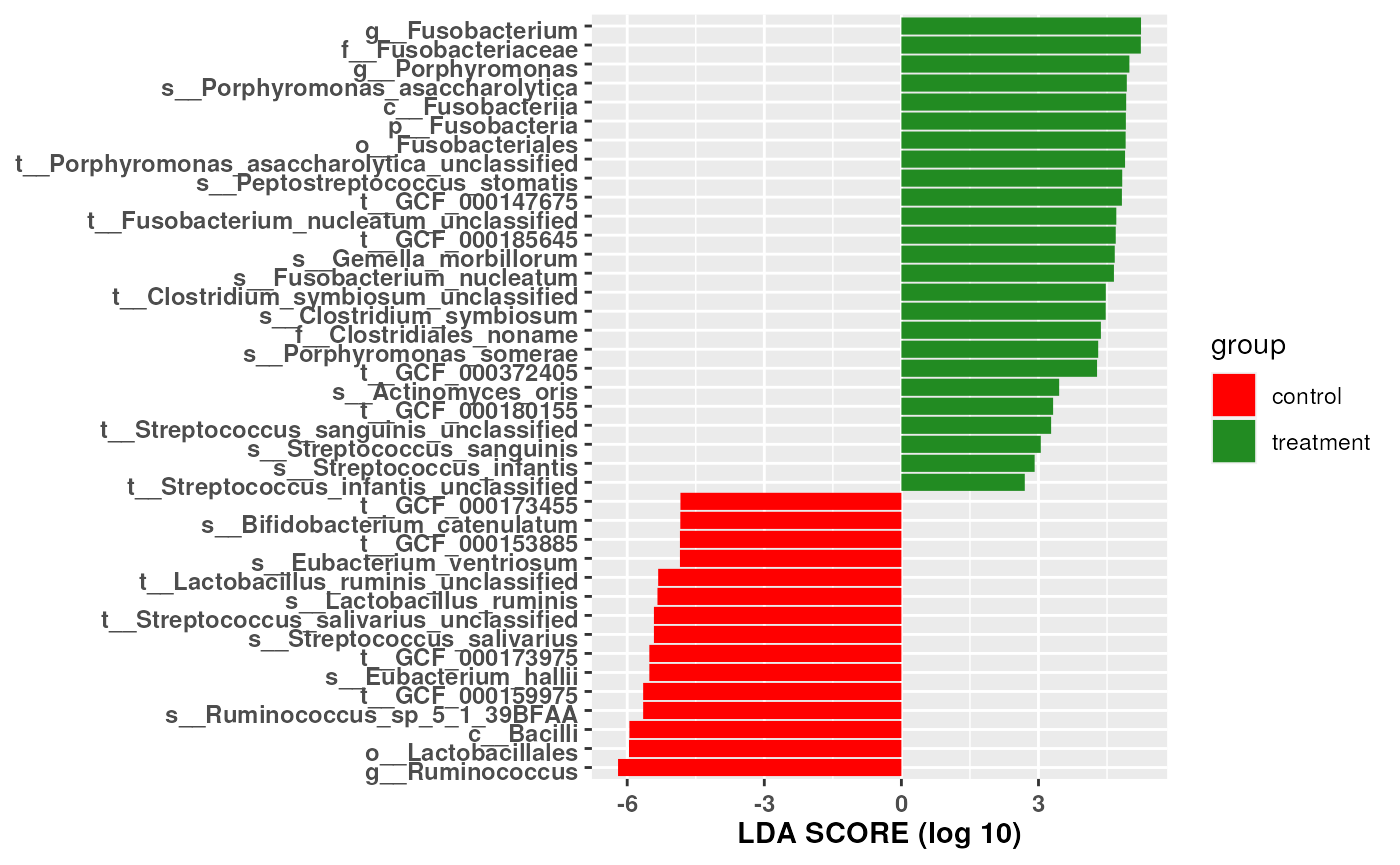
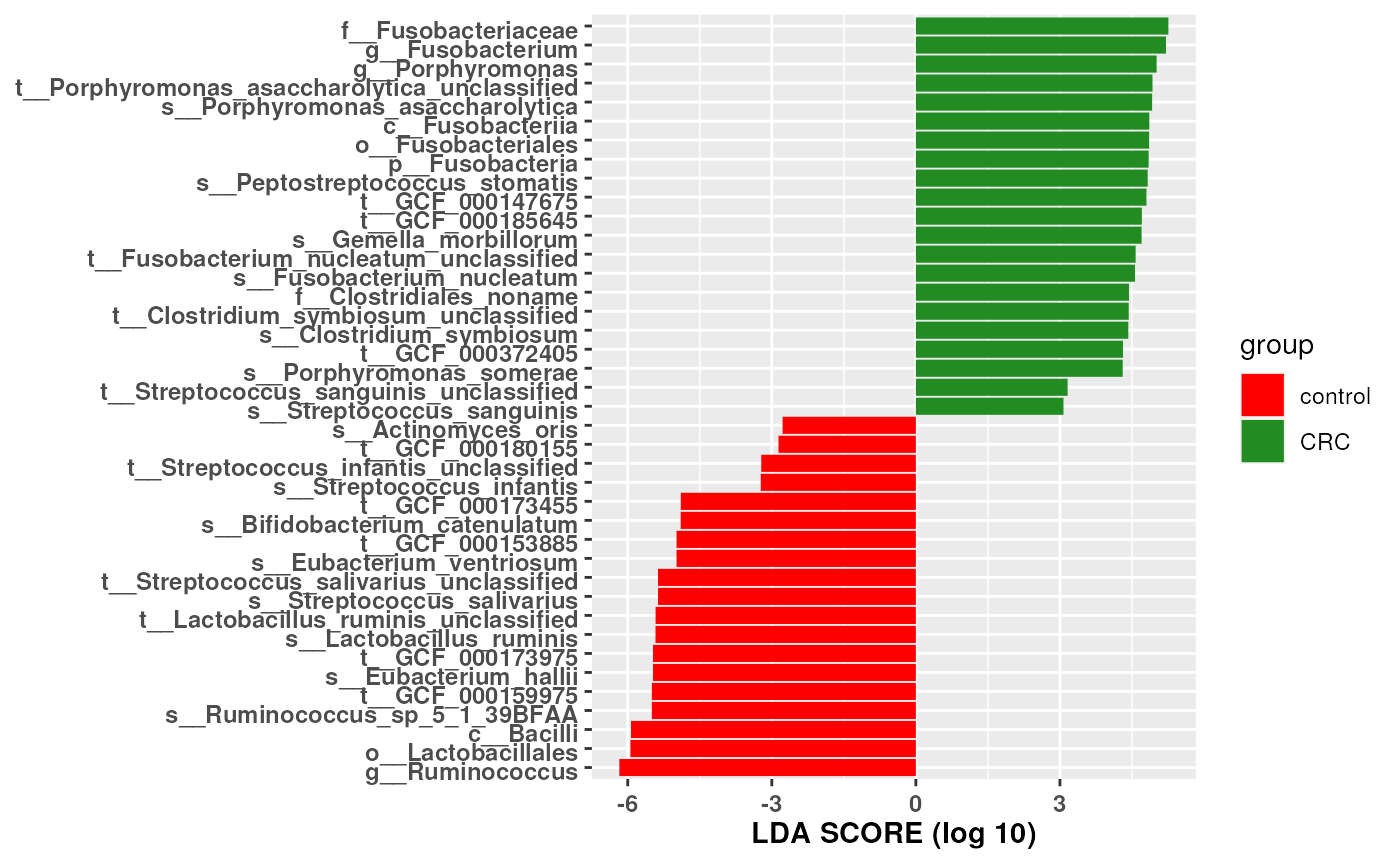
Deploying to gh-pages from @ waldronlab/lefser@ae0b752bccc70e76db7b100ea20f3a078b522543 🚀

diff --git a/articles/lefser.html b/articles/lefser.html
@@ -39,7 +39,7 @@
       </button>
       <span class="navbar-brand">
         <a class="navbar-link" href="../index.html">lefser</a>
-        <span class="version label label-default" data-toggle="tooltip" data-placement="bottom" title="">1.11.2</span>
+        <span class="version label label-default" data-toggle="tooltip" data-placement="bottom" title="">1.11.3</span>
       </span>
     </div>
 
@@ -82,7 +82,7 @@ Waldron<br><small>School of Public Health, City University of New
 York</small>
 </div></h4>
             
-            <h4 data-toc-skip class="date">2023-09-06</h4>
+            <h4 data-toc-skip class="date">2023-10-20</h4>
       
       <small class="dont-index">Source: <a href="https://github.com/waldronlab/lefser/blob/HEAD/vignettes/lefser.Rmd" class="external-link"><code>vignettes/lefser.Rmd</code></a></small>
       <div class="hidden name"><code>lefser.Rmd</code></div>
@@ -162,7 +162,9 @@ and their effect size.</p>
 <code class="sourceCode R"><span><span class="va">res</span> <span class="op">&lt;-</span> <span class="fu"><a href="../reference/lefser.html">lefser</a></span><span class="op">(</span><span class="va">zeller14</span>, groupCol <span class="op">=</span> <span class="st">"study_condition"</span>, blockCol <span class="op">=</span> <span class="st">"age_category"</span><span class="op">)</span></span></code></pre></div>
 <pre><code><span><span class="co">## Warning in lefser(zeller14, groupCol = "study_condition", blockCol =</span></span>
 <span><span class="co">## "age_category"): Convert counts to relative abundances with 'relativeAb()'</span></span></code></pre>
-<div class="sourceCode" id="cb12"><pre class="downlit sourceCode r">
+<pre><code><span><span class="co">## The outcome variable is specified as 'study_condition' and the reference category is 'control'.</span></span>
+<span><span class="co">##  See `?factor` or `?relevel` to change the reference category.</span></span></code></pre>
+<div class="sourceCode" id="cb13"><pre class="downlit sourceCode r">
 <code class="sourceCode R"><span><span class="fu"><a href="https://rdrr.io/r/utils/head.html" class="external-link">head</a></span><span class="op">(</span><span class="va">res</span><span class="op">)</span></span></code></pre></div>
 <pre><code><span><span class="co">##                                                                                                                                        Names</span></span>
 <span><span class="co">## 1                                                k__Bacteria|p__Firmicutes|c__Clostridia|o__Clostridiales|f__Ruminococcaceae|g__Ruminococcus</span></span>
@@ -172,23 +174,23 @@ and their effect size.</p>
 <span><span class="co">## 5 k__Bacteria|p__Firmicutes|c__Clostridia|o__Clostridiales|f__Ruminococcaceae|g__Ruminococcus|s__Ruminococcus_sp_5_1_39BFAA|t__GCF_000159975</span></span>
 <span><span class="co">## 6                            k__Bacteria|p__Firmicutes|c__Clostridia|o__Clostridiales|f__Eubacteriaceae|g__Eubacterium|s__Eubacterium_hallii</span></span>
 <span><span class="co">##      scores</span></span>
-<span><span class="co">## 1 -6.200407</span></span>
-<span><span class="co">## 2 -5.960807</span></span>
-<span><span class="co">## 3 -5.951899</span></span>
-<span><span class="co">## 4 -5.651024</span></span>
-<span><span class="co">## 5 -5.651024</span></span>
-<span><span class="co">## 6 -5.515625</span></span></code></pre>
+<span><span class="co">## 1 -6.174735</span></span>
+<span><span class="co">## 2 -5.944198</span></span>
+<span><span class="co">## 3 -5.932699</span></span>
+<span><span class="co">## 4 -5.498126</span></span>
+<span><span class="co">## 5 -5.498126</span></span>
+<span><span class="co">## 6 -5.474545</span></span></code></pre>
 </div>
 <div class="section level2">
 <h2 id="visualizing-results-with-lefserplot">Visualizing results with <code>lefserPlot</code><a class="anchor" aria-label="anchor" href="#visualizing-results-with-lefserplot"></a>
 </h2>
-<div class="sourceCode" id="cb14"><pre class="downlit sourceCode r">
+<div class="sourceCode" id="cb15"><pre class="downlit sourceCode r">
 <code class="sourceCode R"><span><span class="fu"><a href="../reference/lefserPlot.html">lefserPlot</a></span><span class="op">(</span><span class="va">res</span><span class="op">)</span></span></code></pre></div>
 <p><img src="lefser_files/figure-html/unnamed-chunk-8-1.png" width="700" style="display: block; margin: auto;"></p>
 <div class="section level3">
 <h3 id="sessioninfo">sessionInfo<a class="anchor" aria-label="anchor" href="#sessioninfo"></a>
 </h3>
-<details><div class="sourceCode" id="cb15"><pre class="downlit sourceCode r">
+<details><div class="sourceCode" id="cb16"><pre class="downlit sourceCode r">
 <code class="sourceCode R"><span><span class="fu"><a href="https://rdrr.io/r/utils/sessionInfo.html" class="external-link">sessionInfo</a></span><span class="op">(</span><span class="op">)</span></span></code></pre></div>
 <pre><code><span><span class="co">## R version 4.3.0 (2023-04-21)</span></span>
 <span><span class="co">## Platform: x86_64-pc-linux-gnu (64-bit)</span></span>
@@ -214,40 +216,40 @@ and their effect size.</p>
 <span><span class="co">## [8] base     </span></span>
 <span><span class="co">## </span></span>
 <span><span class="co">## other attached packages:</span></span>
-<span><span class="co">##  [1] lefser_1.11.2               SummarizedExperiment_1.30.2</span></span>
-<span><span class="co">##  [3] Biobase_2.60.0              GenomicRanges_1.52.0       </span></span>
-<span><span class="co">##  [5] GenomeInfoDb_1.36.2         IRanges_2.34.1             </span></span>
-<span><span class="co">##  [7] S4Vectors_0.38.1            BiocGenerics_0.46.0        </span></span>
+<span><span class="co">##  [1] lefser_1.11.3               SummarizedExperiment_1.30.2</span></span>
+<span><span class="co">##  [3] Biobase_2.60.0              GenomicRanges_1.52.1       </span></span>
+<span><span class="co">##  [5] GenomeInfoDb_1.36.4         IRanges_2.34.1             </span></span>
+<span><span class="co">##  [7] S4Vectors_0.38.2            BiocGenerics_0.46.0        </span></span>
 <span><span class="co">##  [9] MatrixGenerics_1.12.3       matrixStats_1.0.0          </span></span>
-<span><span class="co">## [11] BiocStyle_2.28.0           </span></span>
+<span><span class="co">## [11] BiocStyle_2.28.1           </span></span>
 <span><span class="co">## </span></span>
 <span><span class="co">## loaded via a namespace (and not attached):</span></span>
-<span><span class="co">##  [1] gtable_0.3.4            ggplot2_3.4.3           xfun_0.40              </span></span>
-<span><span class="co">##  [4] bslib_0.5.1             coin_1.4-2              lattice_0.21-8         </span></span>
-<span><span class="co">##  [7] generics_0.1.3          vctrs_0.6.3             tools_4.3.0            </span></span>
+<span><span class="co">##  [1] gtable_0.3.4            ggplot2_3.4.4           xfun_0.40              </span></span>
+<span><span class="co">##  [4] bslib_0.5.1             coin_1.4-3              lattice_0.21-9         </span></span>
+<span><span class="co">##  [7] generics_0.1.3          vctrs_0.6.4             tools_4.3.0            </span></span>
 <span><span class="co">## [10] bitops_1.0-7            parallel_4.3.0          sandwich_3.0-2         </span></span>
-<span><span class="co">## [13] fansi_1.0.4             tibble_3.2.1            highr_0.10             </span></span>
-<span><span class="co">## [16] pkgconfig_2.0.3         Matrix_1.6-1            desc_1.4.2             </span></span>
-<span><span class="co">## [19] lifecycle_1.0.3         GenomeInfoDbData_1.2.10 farver_2.1.1           </span></span>
-<span><span class="co">## [22] compiler_4.3.0          stringr_1.5.0           textshaping_0.3.6      </span></span>
-<span><span class="co">## [25] munsell_0.5.0           codetools_0.2-19        htmltools_0.5.6        </span></span>
-<span><span class="co">## [28] sass_0.4.7              RCurl_1.98-1.12         yaml_2.3.7             </span></span>
-<span><span class="co">## [31] pillar_1.9.0            pkgdown_2.0.7           crayon_1.5.2           </span></span>
-<span><span class="co">## [34] jquerylib_0.1.4         MASS_7.3-60             DelayedArray_0.26.7    </span></span>
-<span><span class="co">## [37] cachem_1.0.8            abind_1.4-5             multcomp_1.4-25        </span></span>
-<span><span class="co">## [40] tidyselect_1.2.0        digest_0.6.33           mvtnorm_1.2-3          </span></span>
-<span><span class="co">## [43] stringi_1.7.12          dplyr_1.1.3             purrr_1.0.2            </span></span>
-<span><span class="co">## [46] bookdown_0.35           labeling_0.4.3          splines_4.3.0          </span></span>
-<span><span class="co">## [49] rprojroot_2.0.3         fastmap_1.1.1           grid_4.3.0             </span></span>
-<span><span class="co">## [52] colorspace_2.1-0        cli_3.6.1               magrittr_2.0.3         </span></span>
-<span><span class="co">## [55] S4Arrays_1.0.6          utf8_1.2.3              survival_3.5-7         </span></span>
-<span><span class="co">## [58] TH.data_1.1-2           withr_2.5.0             libcoin_1.0-9          </span></span>
-<span><span class="co">## [61] scales_1.2.1            rmarkdown_2.24          XVector_0.40.0         </span></span>
-<span><span class="co">## [64] ragg_1.2.5              zoo_1.8-12              modeltools_0.2-23      </span></span>
-<span><span class="co">## [67] memoise_2.0.1           evaluate_0.21           knitr_1.43             </span></span>
-<span><span class="co">## [70] rlang_1.1.1             glue_1.6.2              BiocManager_1.30.22    </span></span>
-<span><span class="co">## [73] jsonlite_1.8.7          R6_2.5.1                systemfonts_1.0.4      </span></span>
-<span><span class="co">## [76] fs_1.6.3                zlibbioc_1.46.0</span></span></code></pre>
+<span><span class="co">## [13] fansi_1.0.5             tibble_3.2.1            pkgconfig_2.0.3        </span></span>
+<span><span class="co">## [16] Matrix_1.6-1.1          desc_1.4.2              lifecycle_1.0.3        </span></span>
+<span><span class="co">## [19] GenomeInfoDbData_1.2.10 farver_2.1.1            compiler_4.3.0         </span></span>
+<span><span class="co">## [22] stringr_1.5.0           textshaping_0.3.7       munsell_0.5.0          </span></span>
+<span><span class="co">## [25] codetools_0.2-19        htmltools_0.5.6.1       sass_0.4.7             </span></span>
+<span><span class="co">## [28] RCurl_1.98-1.12         yaml_2.3.7              pillar_1.9.0           </span></span>
+<span><span class="co">## [31] pkgdown_2.0.7           crayon_1.5.2            jquerylib_0.1.4        </span></span>
+<span><span class="co">## [34] MASS_7.3-60             DelayedArray_0.26.7     cachem_1.0.8           </span></span>
+<span><span class="co">## [37] abind_1.4-5             multcomp_1.4-25         tidyselect_1.2.0       </span></span>
+<span><span class="co">## [40] digest_0.6.33           mvtnorm_1.2-3           stringi_1.7.12         </span></span>
+<span><span class="co">## [43] dplyr_1.1.3             purrr_1.0.2             bookdown_0.36          </span></span>
+<span><span class="co">## [46] labeling_0.4.3          splines_4.3.0           rprojroot_2.0.3        </span></span>
+<span><span class="co">## [49] fastmap_1.1.1           grid_4.3.0              colorspace_2.1-0       </span></span>
+<span><span class="co">## [52] cli_3.6.1               magrittr_2.0.3          S4Arrays_1.0.6         </span></span>
+<span><span class="co">## [55] utf8_1.2.3              survival_3.5-7          TH.data_1.1-2          </span></span>
+<span><span class="co">## [58] withr_2.5.1             libcoin_1.0-10          scales_1.2.1           </span></span>
+<span><span class="co">## [61] rmarkdown_2.25          XVector_0.40.0          ragg_1.2.6             </span></span>
+<span><span class="co">## [64] zoo_1.8-12              modeltools_0.2-23       memoise_2.0.1          </span></span>
+<span><span class="co">## [67] evaluate_0.22           knitr_1.44              rlang_1.1.1            </span></span>
+<span><span class="co">## [70] glue_1.6.2              BiocManager_1.30.22     jsonlite_1.8.7         </span></span>
+<span><span class="co">## [73] R6_2.5.1                systemfonts_1.0.5       fs_1.6.3               </span></span>
+<span><span class="co">## [76] zlibbioc_1.46.0</span></span></code></pre>
 </details>
 </div>
 </div>

diff --git a/reference/lefserPlot.html b/reference/lefserPlot.html
@@ -24,7 +24,7 @@ and whether they are more abundant in '0' or '1' sample group."><!-- mathjax -->
       </button>
       <span class="navbar-brand">
         <a class="navbar-link" href="../index.html">lefser</a>
-        <span class="version label label-default" data-toggle="tooltip" data-placement="bottom" title="">1.11.2</span>
+        <span class="version label label-default" data-toggle="tooltip" data-placement="bottom" title="">1.11.3</span>
       </span>
     </div>
 
@@ -103,6 +103,8 @@ Negative scores represent microorganisms with that are more abundant in class '0
 <span class="r-out co"><span class="r-pr">#&gt;</span> </span>
 <span class="r-out co"><span class="r-pr">#&gt;</span> lefser&gt;     res_group &lt;- lefser(zeller14, groupCol = "study_condition")</span>
 <span class="r-wrn co"><span class="r-pr">#&gt;</span> <span class="warning">Warning: </span>Convert counts to relative abundances with 'relativeAb()'</span>
+<span class="r-msg co"><span class="r-pr">#&gt;</span> The outcome variable is specified as 'study_condition' and the reference category is 'CRC'.</span>
+<span class="r-msg co"><span class="r-pr">#&gt;</span>  See `?factor` or `?relevel` to change the reference category.</span>
 <span class="r-out co"><span class="r-pr">#&gt;</span> </span>
 <span class="r-out co"><span class="r-pr">#&gt;</span> lefser&gt;     head(res_group)</span>
 <span class="r-out co"><span class="r-pr">#&gt;</span>                                                                                                                                 Names</span>
@@ -110,15 +112,15 @@ Negative scores represent microorganisms with that are more abundant in class '0
 <span class="r-out co"><span class="r-pr">#&gt;</span> 2                                                                        k__Bacteria|p__Bacteroidetes|c__Bacteroidia|o__Bacteroidales</span>
 <span class="r-out co"><span class="r-pr">#&gt;</span> 3                                                                                                        k__Bacteria|p__Bacteroidetes</span>
 <span class="r-out co"><span class="r-pr">#&gt;</span> 4                                                  k__Bacteria|p__Bacteroidetes|c__Bacteroidia|o__Bacteroidales|f__Porphyromonadaceae</span>
-<span class="r-out co"><span class="r-pr">#&gt;</span> 5 k__Bacteria|p__Firmicutes|c__Clostridia|o__Clostridiales|f__Lachnospiraceae|g__Coprococcus|s__Coprococcus_eutactus|t__GCF_000154425</span>
-<span class="r-out co"><span class="r-pr">#&gt;</span> 6                  k__Bacteria|p__Firmicutes|c__Clostridia|o__Clostridiales|f__Lachnospiraceae|g__Coprococcus|s__Coprococcus_eutactus</span>
+<span class="r-out co"><span class="r-pr">#&gt;</span> 5                  k__Bacteria|p__Firmicutes|c__Clostridia|o__Clostridiales|f__Lachnospiraceae|g__Coprococcus|s__Coprococcus_eutactus</span>
+<span class="r-out co"><span class="r-pr">#&gt;</span> 6 k__Bacteria|p__Firmicutes|c__Clostridia|o__Clostridiales|f__Lachnospiraceae|g__Coprococcus|s__Coprococcus_eutactus|t__GCF_000154425</span>
 <span class="r-out co"><span class="r-pr">#&gt;</span>      scores</span>
-<span class="r-out co"><span class="r-pr">#&gt;</span> 1 -6.309861</span>
-<span class="r-out co"><span class="r-pr">#&gt;</span> 2 -6.309861</span>
-<span class="r-out co"><span class="r-pr">#&gt;</span> 3 -6.309823</span>
-<span class="r-out co"><span class="r-pr">#&gt;</span> 4 -5.754115</span>
-<span class="r-out co"><span class="r-pr">#&gt;</span> 5 -5.615591</span>
-<span class="r-out co"><span class="r-pr">#&gt;</span> 6 -5.603346</span>
+<span class="r-out co"><span class="r-pr">#&gt;</span> 1 -6.391417</span>
+<span class="r-out co"><span class="r-pr">#&gt;</span> 2 -6.391417</span>
+<span class="r-out co"><span class="r-pr">#&gt;</span> 3 -6.391392</span>
+<span class="r-out co"><span class="r-pr">#&gt;</span> 4 -5.738434</span>
+<span class="r-out co"><span class="r-pr">#&gt;</span> 5 -5.569205</span>
+<span class="r-out co"><span class="r-pr">#&gt;</span> 6 -5.564682</span>
 <span class="r-out co"><span class="r-pr">#&gt;</span> </span>
 <span class="r-out co"><span class="r-pr">#&gt;</span> lefser&gt;     # (2) Using classes and sublasses</span>
 <span class="r-out co"><span class="r-pr">#&gt;</span> lefser&gt;     data(zeller14)</span>
@@ -130,22 +132,24 @@ Negative scores represent microorganisms with that are more abundant in class '0
 <span class="r-out co"><span class="r-pr">#&gt;</span> lefser+          zeller14, groupCol = "study_condition", blockCol = "age_category"</span>
 <span class="r-out co"><span class="r-pr">#&gt;</span> lefser+     )</span>
 <span class="r-wrn co"><span class="r-pr">#&gt;</span> <span class="warning">Warning: </span>Convert counts to relative abundances with 'relativeAb()'</span>
+<span class="r-msg co"><span class="r-pr">#&gt;</span> The outcome variable is specified as 'study_condition' and the reference category is 'CRC'.</span>
+<span class="r-msg co"><span class="r-pr">#&gt;</span>  See `?factor` or `?relevel` to change the reference category.</span>
 <span class="r-out co"><span class="r-pr">#&gt;</span> </span>
 <span class="r-out co"><span class="r-pr">#&gt;</span> lefser&gt;     head(res_block)</span>
 <span class="r-out co"><span class="r-pr">#&gt;</span>                                                                                                                                                                                Names</span>
 <span class="r-out co"><span class="r-pr">#&gt;</span> 1                                                                               k__Bacteria|p__Fusobacteria|c__Fusobacteriia|o__Fusobacteriales|f__Fusobacteriaceae|g__Fusobacterium</span>
 <span class="r-out co"><span class="r-pr">#&gt;</span> 2                                                                                                k__Bacteria|p__Fusobacteria|c__Fusobacteriia|o__Fusobacteriales|f__Fusobacteriaceae</span>
 <span class="r-out co"><span class="r-pr">#&gt;</span> 3                                                                                k__Bacteria|p__Bacteroidetes|c__Bacteroidia|o__Bacteroidales|f__Porphyromonadaceae|g__Porphyromonas</span>
-<span class="r-out co"><span class="r-pr">#&gt;</span> 4 k__Bacteria|p__Bacteroidetes|c__Bacteroidia|o__Bacteroidales|f__Porphyromonadaceae|g__Porphyromonas|s__Porphyromonas_asaccharolytica|t__Porphyromonas_asaccharolytica_unclassified</span>
-<span class="r-out co"><span class="r-pr">#&gt;</span> 5                                               k__Bacteria|p__Bacteroidetes|c__Bacteroidia|o__Bacteroidales|f__Porphyromonadaceae|g__Porphyromonas|s__Porphyromonas_asaccharolytica</span>
-<span class="r-out co"><span class="r-pr">#&gt;</span> 6                            k__Bacteria|p__Firmicutes|c__Clostridia|o__Clostridiales|f__Peptostreptococcaceae|g__Peptostreptococcus|s__Peptostreptococcus_stomatis|t__GCF_000147675</span>
+<span class="r-out co"><span class="r-pr">#&gt;</span> 4                                               k__Bacteria|p__Bacteroidetes|c__Bacteroidia|o__Bacteroidales|f__Porphyromonadaceae|g__Porphyromonas|s__Porphyromonas_asaccharolytica</span>
+<span class="r-out co"><span class="r-pr">#&gt;</span> 5 k__Bacteria|p__Bacteroidetes|c__Bacteroidia|o__Bacteroidales|f__Porphyromonadaceae|g__Porphyromonas|s__Porphyromonas_asaccharolytica|t__Porphyromonas_asaccharolytica_unclassified</span>
+<span class="r-out co"><span class="r-pr">#&gt;</span> 6                                                                                                                                                        k__Bacteria|p__Fusobacteria</span>
 <span class="r-out co"><span class="r-pr">#&gt;</span>      scores</span>
-<span class="r-out co"><span class="r-pr">#&gt;</span> 1 -5.221845</span>
-<span class="r-out co"><span class="r-pr">#&gt;</span> 2 -5.211800</span>
-<span class="r-out co"><span class="r-pr">#&gt;</span> 3 -5.029697</span>
-<span class="r-out co"><span class="r-pr">#&gt;</span> 4 -4.941729</span>
-<span class="r-out co"><span class="r-pr">#&gt;</span> 5 -4.920391</span>
-<span class="r-out co"><span class="r-pr">#&gt;</span> 6 -4.833937</span>
+<span class="r-out co"><span class="r-pr">#&gt;</span> 1 -5.277865</span>
+<span class="r-out co"><span class="r-pr">#&gt;</span> 2 -5.200398</span>
+<span class="r-out co"><span class="r-pr">#&gt;</span> 3 -5.049135</span>
+<span class="r-out co"><span class="r-pr">#&gt;</span> 4 -4.937132</span>
+<span class="r-out co"><span class="r-pr">#&gt;</span> 5 -4.895265</span>
+<span class="r-out co"><span class="r-pr">#&gt;</span> 6 -4.886917</span>
 <span class="r-in"><span><span class="fu">lefserPlot</span><span class="op">(</span><span class="va">res_group</span><span class="op">)</span></span></span>
 <span class="r-plt img"><img src="lefserPlot-1.png" alt="" width="700" height="433"></span>
 </code></pre></div>

diff --git a/reference/lefser.html b/reference/lefser.html
@@ -27,7 +27,7 @@ are identified as biomarkers."><!-- mathjax --><script src="https://cdnjs.cloudf
       </button>
       <span class="navbar-brand">
         <a class="navbar-link" href="../index.html">lefser</a>
-        <span class="version label label-default" data-toggle="tooltip" data-placement="bottom" title="">1.11.2</span>
+        <span class="version label label-default" data-toggle="tooltip" data-placement="bottom" title="">1.11.3</span>
       </span>
     </div>
 
@@ -167,6 +167,8 @@ argument to <code>FALSE</code>.</p>
 <span class="r-in"><span>    <span class="va">zeller14</span> <span class="op">&lt;-</span> <span class="va">zeller14</span><span class="op">[</span>, <span class="va">zeller14</span><span class="op">$</span><span class="va">study_condition</span> <span class="op">!=</span> <span class="st">"adenoma"</span><span class="op">]</span></span></span>
 <span class="r-in"><span>    <span class="va">res_group</span> <span class="op">&lt;-</span> <span class="fu">lefser</span><span class="op">(</span><span class="va">zeller14</span>, groupCol <span class="op">=</span> <span class="st">"study_condition"</span><span class="op">)</span></span></span>
 <span class="r-wrn co"><span class="r-pr">#&gt;</span> <span class="warning">Warning: </span>Convert counts to relative abundances with 'relativeAb()'</span>
+<span class="r-msg co"><span class="r-pr">#&gt;</span> The outcome variable is specified as 'study_condition' and the reference category is 'CRC'.</span>
+<span class="r-msg co"><span class="r-pr">#&gt;</span>  See `?factor` or `?relevel` to change the reference category.</span>
 <span class="r-in"><span>    <span class="fu"><a href="https://rdrr.io/r/utils/head.html" class="external-link">head</a></span><span class="op">(</span><span class="va">res_group</span><span class="op">)</span></span></span>
 <span class="r-out co"><span class="r-pr">#&gt;</span>                                                                                                                                 Names</span>
 <span class="r-out co"><span class="r-pr">#&gt;</span> 1                                                                                         k__Bacteria|p__Bacteroidetes|c__Bacteroidia</span>
@@ -176,12 +178,12 @@ argument to <code>FALSE</code>.</p>
 <span class="r-out co"><span class="r-pr">#&gt;</span> 5                  k__Bacteria|p__Firmicutes|c__Clostridia|o__Clostridiales|f__Lachnospiraceae|g__Coprococcus|s__Coprococcus_eutactus</span>
 <span class="r-out co"><span class="r-pr">#&gt;</span> 6 k__Bacteria|p__Firmicutes|c__Clostridia|o__Clostridiales|f__Lachnospiraceae|g__Coprococcus|s__Coprococcus_eutactus|t__GCF_000154425</span>
 <span class="r-out co"><span class="r-pr">#&gt;</span>      scores</span>
-<span class="r-out co"><span class="r-pr">#&gt;</span> 1 -6.346146</span>
-<span class="r-out co"><span class="r-pr">#&gt;</span> 2 -6.346146</span>
-<span class="r-out co"><span class="r-pr">#&gt;</span> 3 -6.346114</span>
-<span class="r-out co"><span class="r-pr">#&gt;</span> 4 -5.723075</span>
-<span class="r-out co"><span class="r-pr">#&gt;</span> 5 -5.614742</span>
-<span class="r-out co"><span class="r-pr">#&gt;</span> 6 -5.604040</span>
+<span class="r-out co"><span class="r-pr">#&gt;</span> 1 -6.354209</span>
+<span class="r-out co"><span class="r-pr">#&gt;</span> 2 -6.354209</span>
+<span class="r-out co"><span class="r-pr">#&gt;</span> 3 -6.354174</span>
+<span class="r-out co"><span class="r-pr">#&gt;</span> 4 -5.747853</span>
+<span class="r-out co"><span class="r-pr">#&gt;</span> 5 -5.665942</span>
+<span class="r-out co"><span class="r-pr">#&gt;</span> 6 -5.638854</span>
 <span class="r-in"><span></span></span>
 <span class="r-in"><span>    <span class="co"># (2) Using classes and sublasses</span></span></span>
 <span class="r-in"><span>    <span class="fu"><a href="https://rdrr.io/r/utils/data.html" class="external-link">data</a></span><span class="op">(</span><span class="va">zeller14</span><span class="op">)</span></span></span>
@@ -191,21 +193,23 @@ argument to <code>FALSE</code>.</p>
 <span class="r-in"><span>         <span class="va">zeller14</span>, groupCol <span class="op">=</span> <span class="st">"study_condition"</span>, blockCol <span class="op">=</span> <span class="st">"age_category"</span></span></span>
 <span class="r-in"><span>    <span class="op">)</span></span></span>
 <span class="r-wrn co"><span class="r-pr">#&gt;</span> <span class="warning">Warning: </span>Convert counts to relative abundances with 'relativeAb()'</span>
+<span class="r-msg co"><span class="r-pr">#&gt;</span> The outcome variable is specified as 'study_condition' and the reference category is 'CRC'.</span>
+<span class="r-msg co"><span class="r-pr">#&gt;</span>  See `?factor` or `?relevel` to change the reference category.</span>
 <span class="r-in"><span>    <span class="fu"><a href="https://rdrr.io/r/utils/head.html" class="external-link">head</a></span><span class="op">(</span><span class="va">res_block</span><span class="op">)</span></span></span>
 <span class="r-out co"><span class="r-pr">#&gt;</span>                                                                                                                                                                                Names</span>
-<span class="r-out co"><span class="r-pr">#&gt;</span> 1                                                                                                k__Bacteria|p__Fusobacteria|c__Fusobacteriia|o__Fusobacteriales|f__Fusobacteriaceae</span>
-<span class="r-out co"><span class="r-pr">#&gt;</span> 2                                                                               k__Bacteria|p__Fusobacteria|c__Fusobacteriia|o__Fusobacteriales|f__Fusobacteriaceae|g__Fusobacterium</span>
+<span class="r-out co"><span class="r-pr">#&gt;</span> 1                                                                               k__Bacteria|p__Fusobacteria|c__Fusobacteriia|o__Fusobacteriales|f__Fusobacteriaceae|g__Fusobacterium</span>
+<span class="r-out co"><span class="r-pr">#&gt;</span> 2                                                                                                k__Bacteria|p__Fusobacteria|c__Fusobacteriia|o__Fusobacteriales|f__Fusobacteriaceae</span>
 <span class="r-out co"><span class="r-pr">#&gt;</span> 3                                                                                k__Bacteria|p__Bacteroidetes|c__Bacteroidia|o__Bacteroidales|f__Porphyromonadaceae|g__Porphyromonas</span>
 <span class="r-out co"><span class="r-pr">#&gt;</span> 4 k__Bacteria|p__Bacteroidetes|c__Bacteroidia|o__Bacteroidales|f__Porphyromonadaceae|g__Porphyromonas|s__Porphyromonas_asaccharolytica|t__Porphyromonas_asaccharolytica_unclassified</span>
 <span class="r-out co"><span class="r-pr">#&gt;</span> 5                                               k__Bacteria|p__Bacteroidetes|c__Bacteroidia|o__Bacteroidales|f__Porphyromonadaceae|g__Porphyromonas|s__Porphyromonas_asaccharolytica</span>
-<span class="r-out co"><span class="r-pr">#&gt;</span> 6                                             k__Bacteria|p__Firmicutes|c__Clostridia|o__Clostridiales|f__Peptostreptococcaceae|g__Peptostreptococcus|s__Peptostreptococcus_stomatis</span>
+<span class="r-out co"><span class="r-pr">#&gt;</span> 6                                                                                                                    k__Bacteria|p__Fusobacteria|c__Fusobacteriia|o__Fusobacteriales</span>
 <span class="r-out co"><span class="r-pr">#&gt;</span>      scores</span>
-<span class="r-out co"><span class="r-pr">#&gt;</span> 1 -5.226387</span>
-<span class="r-out co"><span class="r-pr">#&gt;</span> 2 -5.225642</span>
-<span class="r-out co"><span class="r-pr">#&gt;</span> 3 -5.067156</span>
-<span class="r-out co"><span class="r-pr">#&gt;</span> 4 -4.998954</span>
-<span class="r-out co"><span class="r-pr">#&gt;</span> 5 -4.990213</span>
-<span class="r-out co"><span class="r-pr">#&gt;</span> 6 -4.830890</span>
+<span class="r-out co"><span class="r-pr">#&gt;</span> 1 -5.257637</span>
+<span class="r-out co"><span class="r-pr">#&gt;</span> 2 -5.242320</span>
+<span class="r-out co"><span class="r-pr">#&gt;</span> 3 -5.043539</span>
+<span class="r-out co"><span class="r-pr">#&gt;</span> 4 -4.952424</span>
+<span class="r-out co"><span class="r-pr">#&gt;</span> 5 -4.926706</span>
+<span class="r-out co"><span class="r-pr">#&gt;</span> 6 -4.884561</span>
 </code></pre></div>
     </div>
   </div>

diff --git a/authors.html b/authors.html
@@ -23,7 +23,7 @@
       </button>
       <span class="navbar-brand">
         <a class="navbar-link" href="index.html">lefser</a>
-        <span class="version label label-default" data-toggle="tooltip" data-placement="bottom" title="">1.11.2</span>
+        <span class="version label label-default" data-toggle="tooltip" data-placement="bottom" title="">1.11.3</span>
       </span>
     </div>
 
@@ -84,13 +84,13 @@
 
     <p>Khleborodova A (2023).
 <em>lefser: R implementation of the LEfSE method for microbiome biomarker discovery</em>.
-R package version 1.11.2, <a href="https://github.com/waldronlab/lefser" class="external-link">https://github.com/waldronlab/lefser</a>. 
+R package version 1.11.3, <a href="https://github.com/waldronlab/lefser" class="external-link">https://github.com/waldronlab/lefser</a>. 
 </p>
     <pre>@Manual{,
   title = {lefser: R implementation of the LEfSE method for microbiome biomarker discovery},
   author = {Asya Khleborodova},
   year = {2023},
-  note = {R package version 1.11.2},
+  note = {R package version 1.11.3},
   url = {https://github.com/waldronlab/lefser},
 }</pre>
 

diff --git a/reference/relativeAb.html b/reference/relativeAb.html
@@ -24,7 +24,7 @@ column by the respective column total."><!-- mathjax --><script src="https://cdn
       </button>
       <span class="navbar-brand">
         <a class="navbar-link" href="../index.html">lefser</a>
-        <span class="version label label-default" data-toggle="tooltip" data-placement="bottom" title="">1.11.2</span>
+        <span class="version label label-default" data-toggle="tooltip" data-placement="bottom" title="">1.11.3</span>
       </span>
     </div>
 

diff --git a/reference/zeller14.html b/reference/zeller14.html
@@ -25,7 +25,7 @@ directory "data-raw".'><!-- mathjax --><script src="https://cdnjs.cloudflare.com
       </button>
       <span class="navbar-brand">
         <a class="navbar-link" href="../index.html">lefser</a>
-        <span class="version label label-default" data-toggle="tooltip" data-placement="bottom" title="">1.11.2</span>
+        <span class="version label label-default" data-toggle="tooltip" data-placement="bottom" title="">1.11.3</span>
       </span>
     </div>
 

diff --git a/404.html b/404.html
@@ -38,7 +38,7 @@
       </button>
       <span class="navbar-brand">
         <a class="navbar-link" href="https://waldronlab.io/lefser/index.html">lefser</a>
-        <span class="version label label-default" data-toggle="tooltip" data-placement="bottom" title="">1.11.2</span>
+        <span class="version label label-default" data-toggle="tooltip" data-placement="bottom" title="">1.11.3</span>
       </span>
     </div>
 

diff --git a/articles/index.html b/articles/index.html
@@ -23,7 +23,7 @@
       </button>
       <span class="navbar-brand">
         <a class="navbar-link" href="../index.html">lefser</a>
-        <span class="version label label-default" data-toggle="tooltip" data-placement="bottom" title="">1.11.2</span>
+        <span class="version label label-default" data-toggle="tooltip" data-placement="bottom" title="">1.11.3</span>
       </span>
     </div>
 

diff --git a/news/index.html b/news/index.html
@@ -23,7 +23,7 @@
       </button>
       <span class="navbar-brand">
         <a class="navbar-link" href="../index.html">lefser</a>
-        <span class="version label label-default" data-toggle="tooltip" data-placement="bottom" title="">1.11.2</span>
+        <span class="version label label-default" data-toggle="tooltip" data-placement="bottom" title="">1.11.3</span>
       </span>
     </div>
 

diff --git a/reference/index.html b/reference/index.html
@@ -23,7 +23,7 @@
       </button>
       <span class="navbar-brand">
         <a class="navbar-link" href="../index.html">lefser</a>
-        <span class="version label label-default" data-toggle="tooltip" data-placement="bottom" title="">1.11.2</span>
+        <span class="version label label-default" data-toggle="tooltip" data-placement="bottom" title="">1.11.3</span>
       </span>
     </div>
 

diff --git a/index.html b/index.html
@@ -42,7 +42,7 @@
       </button>
       <span class="navbar-brand">
         <a class="navbar-link" href="index.html">lefser</a>
-        <span class="version label label-default" data-toggle="tooltip" data-placement="bottom" title="">1.11.2</span>
+        <span class="version label label-default" data-toggle="tooltip" data-placement="bottom" title="">1.11.3</span>
       </span>
     </div>
 
